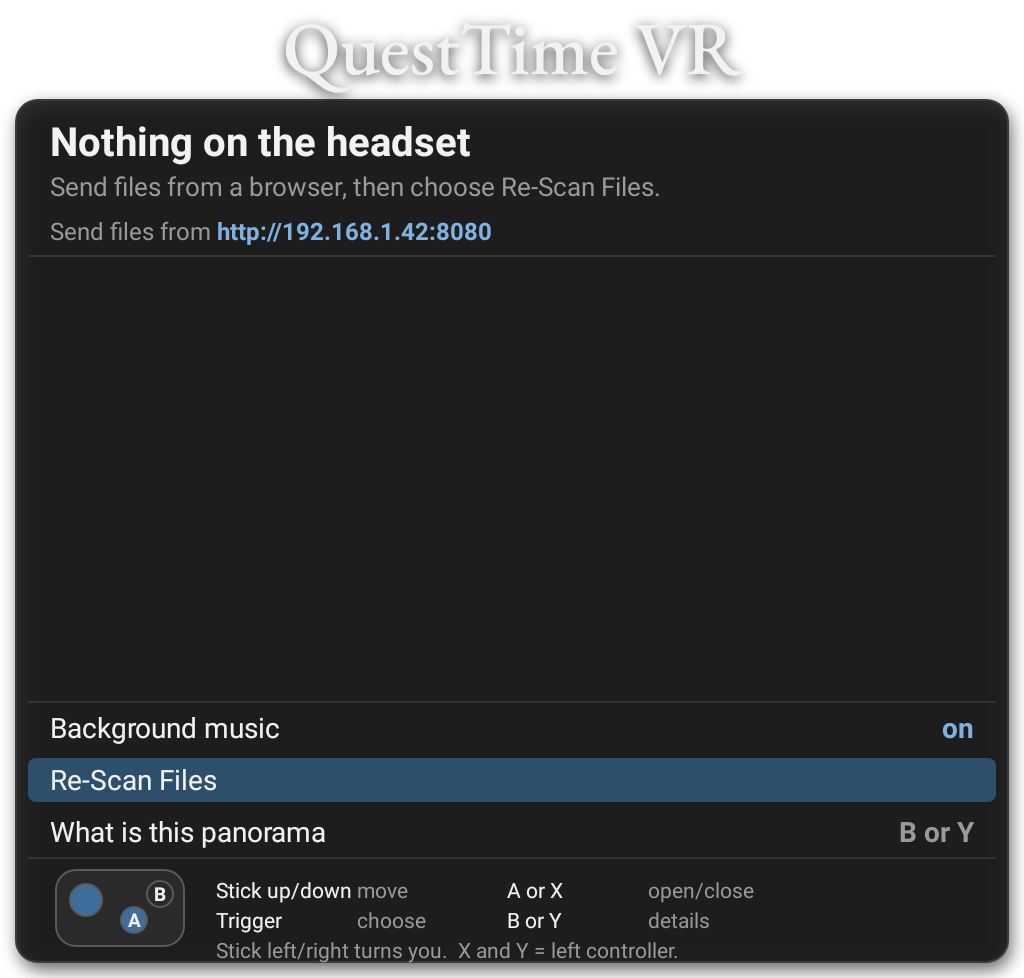
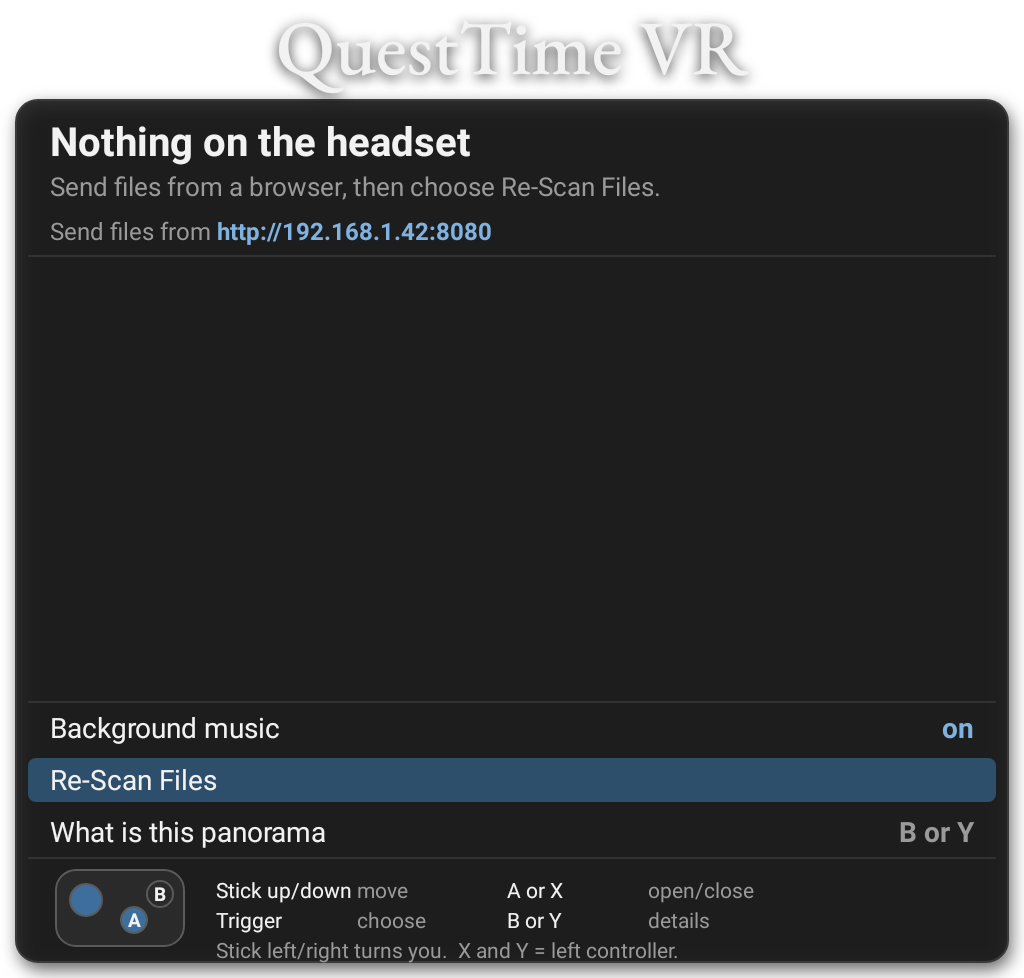
QuestTime VR 0.4.0: menu title at 77 px

Changed region(s): [[0.25, 0.0307, 0.4375, 0.092], [0.625, 0.0307, 0.7188, 0.092], [0.5625, 0.0307, 0.5938, 0.092]]

diff --git a/android/app/src/main/java/com/questtime/vr/MenuBar.kt b/android/app/src/main/java/com/questtime/vr/MenuBar.kt
@@ -479,9 +479,9 @@ object MenuBar {
     private fun brand(c: Canvas, panel: RectF) {
         val p = Paint(Paint.ANTI_ALIAS_FLAG).apply {
             color = TEXT
-            // 75 px. Garamond's lowercase is short, so it needs more size than the Roboto
+            // 77 px. Garamond's lowercase is short, so it needs more size than the Roboto
             // it replaced to carry the same weight over a bright panorama.
-            textSize = 75f
+            textSize = 77f
             typeface = brandFace ?: Typeface.create(UI, Typeface.BOLD)
             textAlign = Paint.Align.CENTER
             setShadowLayer(10f, 0f, 3f, 0xCC000000.toInt())

diff --git a/CLAUDE.md b/CLAUDE.md
@@ -402,7 +402,7 @@ License - the licence ships beside the font in the APK, as the OFL requires. Not
 Only the title uses it. Everything else stays Roboto, which holds up better at small
 sizes in a headset. `MenuBar.loadBrandFont` is called once from `VrActivity`, because
 loading an asset needs an AssetManager and `MenuBar` has no Context; without it the
-title falls back to bold Roboto rather than failing. It is 75 px, in an 84 px strip above the panel (`BRAND_H`), set 26 px up so the tail of the Q clears the panel. `rowAt` and `listHeight` read `BRAND_H`, so resizing the title moves the rows with it. `MenuPreviewTest` loads it too, so
+title falls back to bold Roboto rather than failing. It is 77 px, in an 84 px strip above the panel (`BRAND_H`), set 26 px up so the tail of the Q clears the panel. `rowAt` and `listHeight` read `BRAND_H`, so resizing the title moves the rows with it. `MenuPreviewTest` loads it too, so
 the screenshots match the headset.
 
 **It is submitted last**, after the arcs rather than before them like the caps.
